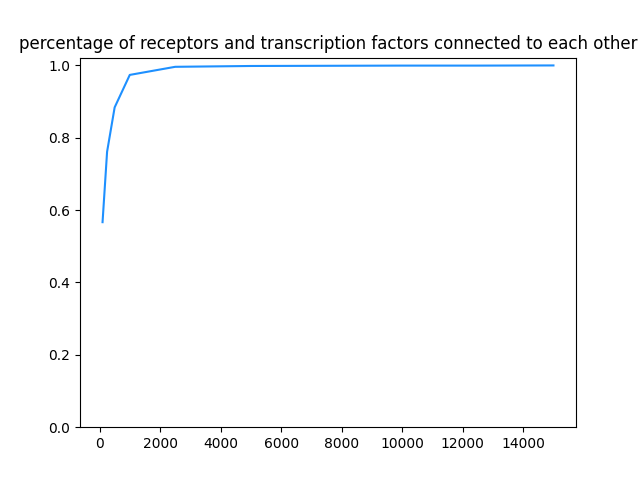
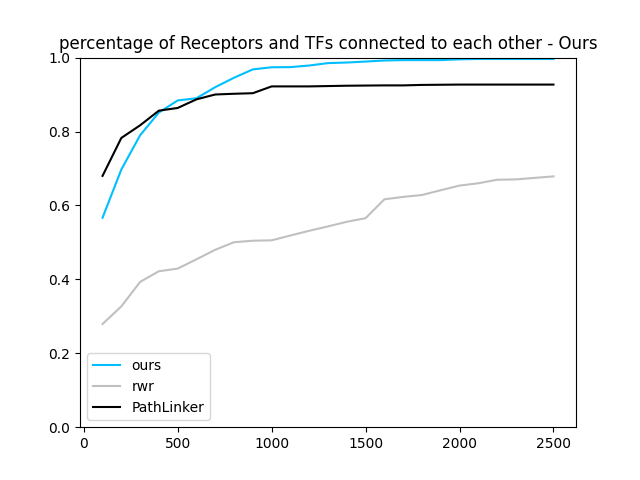
Connectivity comparison added

diff --git a/connectivity.py b/connectivity.py
@@ -9,53 +9,69 @@ colors = dict(mcolors.BASE_COLORS, **mcolors.CSS4_COLORS)
 datas = ["Alpha6Beta4Integrin", "AndrogenReceptor", "BCR", "BDNF", "CRH", "EGFR1", "FSH", "Hedgehog", "IL1",
          "IL2", "IL3", "IL4", "IL5", "IL6", "IL9", "IL-7", "KitReceptor", "Leptin", "Notch", "Oncostatin_M",
          "Prolactin", "RANKL", "TCR", "TGF_beta_Receptor", "TNFalpha", "TSH", "TSLP", "TWEAK", "Wnt"]
+# datas = ["TGF_beta_Receptor", "TNFalpha", "Wnt"]
 
 # defining the bounds for which we want to compute the connectivity
-bounds = [100 * (i+1) for i in range(20)]
-pallet = [colors['dodgerblue'], colors['forestgreen'], colors['limegreen'], colors['springgreen'], colors['turquoise'],
+bounds = [100 * (i + 1) for i in range(25)]
+pallet = [colors['deepskyblue'], colors['silver'], colors['black'], colors['springgreen'], colors['turquoise'],
           colors['deepskyblue'], colors['dodgerblue'], colors['blue']]
 
-connected_pairs = [[] for _ in range(len(bounds))]
+methods = ["ours", "rwr", "PathLinker"]
+connected_pairs = [[[] for _ in range(len(bounds))] for _ in range(len(methods))]
+
+
+def compute_connected_pairs(filename, sources, destinations, method, nodes_map):
+    # defining a graph for each bound
+    G = [nx.DiGraph() for _ in range(len(bounds))]
+
+    # reading the pathway generated by our algorithm
+    edges = []
+    with open(filename, 'r') as f:
+        for line in f:
+            sp = line.split()
+            if sp[0] != "#tail":
+                if method == "PathLinker":
+                    edges.append([nodes_map[sp[0]], nodes_map[sp[1]]])
+                else:
+                    edges.append([int(sp[0]), int(sp[1])])
+
+    connected_pairs_data = [0 for _ in range(len(bounds))]
+    for i in range(len(bounds)):
+        for j in range(min(bounds[i], len(edges))):
+            G[i].add_edge(edges[j][0], edges[j][1])
+
+        for seed in sources:
+            if G[i].has_node(seed):
+                descendants = nx.algorithms.descendants(G[i], seed)
+                for target in destinations:
+                    if target in descendants:
+                        connected_pairs_data[i] += 1
+
+        connected_pairs_data[i] /= len(sources) * len(destinations)
+    return connected_pairs_data
+
 
 for data in datas:
-    our_pathway = "results/" + data + "edges-ours.txt"
+    print(data)
+    pathways = ["results/" + data + "edges-ours.txt", "results/" + data + "edges-rwr.txt",
+                "data/PathLinker_output/" + data + "k-2000-ranked-edges.txt"]
 
     rtf_path = "data/NetPath/" + data + "-nodes.txt"
     nodes = read_nodes("data/nodes_map.txt")
     # reading seeds and targets
     seeds, targets = read_source_and_destinations(rtf_path, nodes)
 
-    # defining a graph for each bound
-    G = [nx.Graph() for _ in range(len(bounds))]
+    for k in range(len(methods)):
+        connected_pairs_method = compute_connected_pairs(pathways[k], seeds, targets, methods[k], nodes)
 
-    # reading the pathway generated by our algorithm
-    edges = []
-    with open(our_pathway, 'r') as f:
-        for line in f:
-            sp = line.split()
-            edges.append([int(sp[0]), int(sp[1])])
+        for i in range(len(bounds)):
+            connected_pairs[k][i].append(connected_pairs_method[i])
 
-    connected_pairs_data = [0 for _ in range(len(bounds))]
-    for i in range(len(bounds)):
-        for j in range(bounds[i]):
-            G[i].add_edge(edges[j][0], edges[j][1])
-
-        for seed in seeds:
-            if G[i].has_node(seed):
-                descendants = nx.algorithms.descendants(G[i], seed)
-                for target in targets:
-                    if target in descendants:
-                        connected_pairs_data[i] += 1
-
-        connected_pairs_data[i] /= len(seeds) * len(targets)
-
-    for i in range(len(bounds)):
-        connected_pairs[i].append(connected_pairs_data[i])
-    print(connected_pairs_data)
-
-plt.plot(bounds, [sum(connected_pairs[i]) / len(datas) for i in range(len(bounds))], color=pallet[0])
-# plt.xticks([j for j in range(len(datas))], datas, rotation=90)
-plt.ylim(bottom=0)
-plt.title("percentage of receptors and transcription factors connected to each other")
-plt.savefig("output/connectivity_low.png")
+for k in range(len(methods)):
+    plt.plot(bounds, [sum(connected_pairs[k][i]) / len(datas) for i in range(len(bounds))], color=pallet[k],
+             label=methods[k])
+plt.ylim(bottom=0, top=1)
+plt.legend()
+plt.title("percentage of Receptors and TFs connected to each other")
+plt.savefig("output/connectivity_directed.png")
 plt.close()
